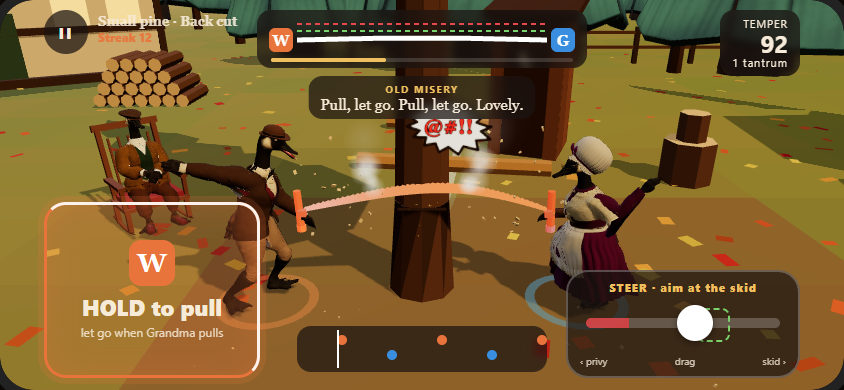
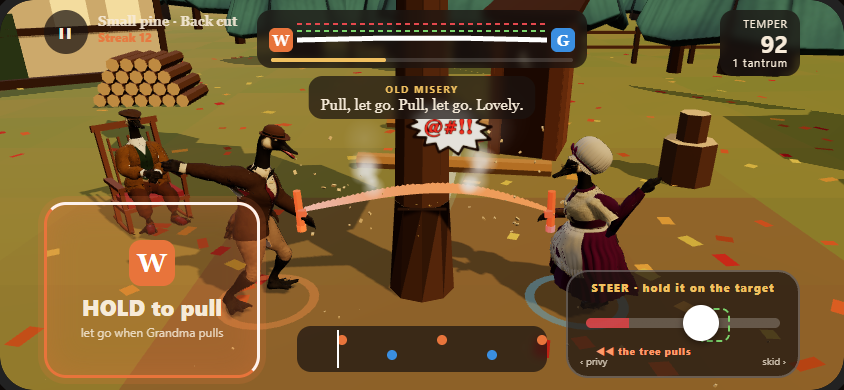
Touch solo design: Pete's answers — hold to pull, fight-the-pull steering, landscape only
Claude-Session: https://claude.ai/code/session_0177gy1QJfnssCw3xf7FwN8v

Changed region(s): [[0.7085, 0.7077, 0.9242, 0.9538]]

diff --git a/docs/mockups/touch-solo/mockups.html b/docs/mockups/touch-solo/mockups.html
@@ -35,6 +35,7 @@
   .steer .knob { position: absolute; top: 33px; width: 36px; height: 36px; margin-left: -18px; border-radius: 50%; background: #fff; box-shadow: 0 2px 8px rgba(0,0,0,.5); }
   .steer .lbl { position: absolute; left: 0; right: 0; top: 8px; font-size: 11px; letter-spacing: .1em; font-weight: 800; color: #f0c060; }
   .steer .ends { position: absolute; left: 12px; right: 12px; bottom: 8px; display: flex; justify-content: space-between; font-size: 10px; opacity: .8; }
+  .pullarrow { position: absolute; left: 28px; top: 72px; font-size: 10px; font-weight: 800; color: #ff9a6a; letter-spacing: .06em; }
   .beats { position: absolute; left: 50%; bottom: 6px; transform: translateX(-50%); width: 250px; height: 46px; padding: 6px 10px; box-sizing: border-box; }
   .lane { position: relative; height: 15px; }
   .lane i { position: absolute; top: 3px; width: 10px; height: 10px; border-radius: 50%; }
@@ -87,7 +88,7 @@
     <div class="lane g"><i style="left:80px"></i><i style="left:180px"></i></div>
     <div class="now"></div>
   </div>
-  <div class="pad steer"><div class="lbl">STEER · aim at the skid</div><div class="track"></div><div class="target" style="left:62%"></div><div class="knob" style="left:55%"></div><div class="ends"><span>‹ privy</span><span>drag</span><span>skid ›</span></div></div>
+  <div class="pad steer"><div class="lbl">STEER · hold it on the target</div><div class="track"></div><div class="target" style="left:62%"></div><div class="knob" style="left:58%"></div><div class="pullarrow">◀◀ the tree pulls</div><div class="ends"><span>‹ privy</span><span></span><span>skid ›</span></div></div>
 </div></div>
 
 <!-- B: the notch -->

diff --git a/docs/TOUCH-SOLO.md b/docs/TOUCH-SOLO.md
@@ -1,6 +1,6 @@
 # Touch solo: play on just your phone
 
-**Status:** design for Pete's sign-off. Nothing is built yet.
+**Status:** Pete answered the questions on 2026-10-25 (§9). Nothing is built yet.
 
 **Goal:** someone with only a phone opens timber.housetandem.com, taps **Solo**, turns the phone sideways and saws with Grandma using their thumbs. No TV, no second phone and no QR code.
 
@@ -33,8 +33,8 @@ The one new thing in the game logic is **analog steering**. Keys give a roll of 
 - **Which devices count as a phone:** `matchMedia('(pointer: coarse) and (hover: none)')` and no physical keyboard used yet. A tablet counts too. The first real key press switches back to the keyboard layout.
 - **Main menu on a phone** (upright is fine here):
   - **Solo — on this phone** goes straight to the game: seat A = touch, seat B = Grandma. The QR lobby is skipped because there's nothing to pair.
-  - **Online duo** stays. Touch there is a follow-up (§9, question 4).
-  - **Two players — one screen** is shown greyed out, labelled "Needs a TV or laptop".
+  - **Online duo** stays. Touch there is a later follow-up (§9).
+  - **Two players — one screen** (local multiplayer) is shown greyed out, labelled "Needs a TV or laptop".
 - **The safety card is skipped** for touch, because nothing is swung. Same for the lesson (calibration), which keyboard seats already skip.
 - **Turn sideways.** If the phone is upright during a game, a full-screen card says "Turn your phone sideways — Grandma's already holding her end." The game pauses behind it.
 - **Tapping Solo** is the user gesture that unlocks audio, takes the Wake Lock, and on Android asks for fullscreen plus `screen.orientation.lock('landscape')`. iPhone Safari has no fullscreen for pages, so the safe-area insets do the work there. Add to Home Screen (a manifest with `display: fullscreen`) gives a clean full screen.
@@ -50,7 +50,7 @@ Sideways, two thumbs. The scene stays visible in the middle.
 | Zone | What | Size |
 |---|---|---|
 | **Bottom left: the saw pad** | Your handle (orange **W**). **Hold to pull, let go when Grandma pulls.** The ring around the pad fills on your beat, so you can keep time without looking at the beat strip. The pad's whole area is live, and a thumb that slides off it still counts as held until it lifts. | ~210×170 pt, or about a quarter of the screen |
-| **Bottom right: steer** | Drag the knob left or right; it springs back to the middle when you let go (like untwisting your fist). The dashed box is where the tree should fall, and the red end is the privy. This replaces the TV's aim dial: the control shows its own target. | ~230×104 pt |
+| **Bottom right: steer** | **You fight it.** The knob is always being pulled toward one side, as if the tree wants to lean that way, and you hold it on the target against that pull. Let go and it slides off to that side. The pull's side and strength drift now and then, so steering is managed the whole cut and never set once. The dashed box is where the tree should fall, and the red end is the privy. This replaces the TV's aim dial: the control shows its own target. | ~230×104 pt |
 | **Bottom middle: beat strip** | The two-lane strip from the TV, small: your dots on odd beats, Grandma's on even ones. | 250×46 |
 | **Top middle: blade strip** | The blade with its live bow and the green and red lines, the handle chips at each end, and the cut bar underneath. This is the TV's saw panel shrunk to one strip. The stroke sliders and FORWARD/BACK labels are dropped, because the pad shows your state. | 330×58 |
 | **Top right** | Temper and tantrums. | chip |
@@ -95,13 +95,21 @@ The scene must hold 60 fps on a mid-range phone.
 | **T2** | The first-strokes coach | The coach shows once, then goes away after three clean strokes |
 | **T3** | Haptics, fullscreen/orientation on Android, Wake Lock, the Add to Home Screen manifest, the quality drop | 60 fps on Pete's phones; Pete plays a tree on an iPhone and an Android |
 
-## 9. Questions for Pete
+## 9. Pete's answers (2026-10-25)
 
-1. **How the saw works by touch.** My recommendation is **A**.
-   - **A. Hold to pull** (the mockups above). It's what the phone remote's touch mode and the keyboard already do, so nothing new is needed, and scores match. The weakness: you can't really *push*. Letting go always follows smoothly, so the only mistakes are timing: holding too long gives a tug, letting go too early gives a push.
-   - **B. Drag the handle.** Your thumb *is* the handle: drag it toward you to pull, and ease it forward as Grandma pulls. It's more literal, because a shove forward is a real push and bows the blade, but it needs a new position input and its own tuning. ![Option B](mockups/touch-solo/drag.png)
-   - A could ship first and B could be tried as a playtest arm.
-2. **Steering:** a spring-back knob (recommended, like untwisting a fist), or a knob that stays where you leave it (one less thing to hold)?
-3. **Two players on a phone:** greyed out with "Needs a TV or laptop" (recommended), or hidden?
-4. **Online duo by touch:** each home plays on its own phone. It falls out of this work almost for free (the guest already has a keyboard path), but it's a new way to play. Include it now, or as a follow-up?
-5. **Portrait:** sideways only, with the rotate card (recommended), or also design an upright layout?
+1. **Saw input: hold to pull (A)** for now. Drag-the-handle (B) stays on the shelf.
+2. **Steering is actively managed:** a pull toward one side that you have to fight (§4). It doesn't simply spring back to the middle, and it doesn't stay where you leave it.
+   - Still to settle while building T1: which way the pull goes. My proposal is toward the tree's own lean, which the TV game could show too. How strong it is and how often it changes get tuned in play.
+3. **Two players (local multiplayer) on a phone:** greyed out. Online multiplayer is coming soon.
+4. **Online duo by touch:** later.
+5. **Landscape only**, with the rotate card.
+
+<details><summary>The original questions</summary>
+
+1. Hold to pull (A) or drag the handle (B)? ![Option B](mockups/touch-solo/drag.png)
+2. Spring-back steering or a knob that stays put?
+3. Two players on a phone: grey out or hide?
+4. Online duo by touch now or later?
+5. Landscape only?
+
+</details>
